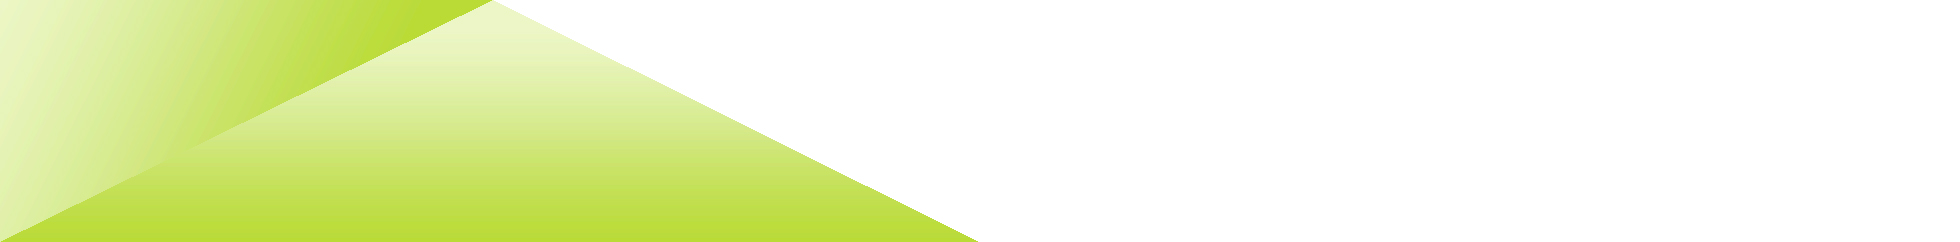
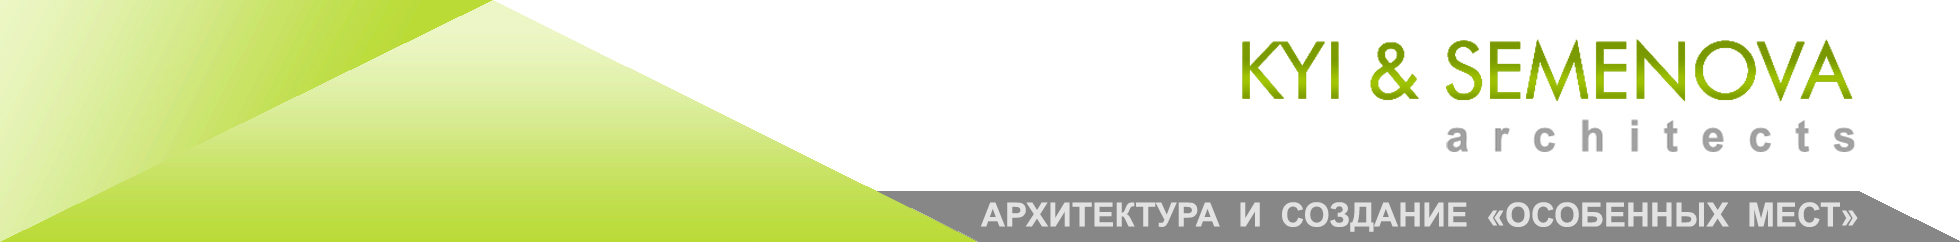
- Added custom 'play' arrow on video - Home page style changed

Changed region(s): [[0.4357, 0.781, 1.0, 1.0], [0.6224, 0.1446, 0.9648, 0.4339], [0.7158, 0.4917, 0.9648, 0.6364]]

diff --git a/app/app.css b/app/app.css
@@ -21,13 +21,13 @@
     left: -35%;
     padding: 30px 0;
 
-    background: rgba(158, 158, 158, 1);
-    background: -moz-linear-gradient(top, rgba(158, 158, 158, 1) 0%, rgba(224, 224, 224, 1) 84%, rgba(245, 245, 245, 1) 100%);
-    background: -webkit-linear-gradient(top, rgba(158, 158, 158, 1) 0%, rgba(224, 224, 224, 1) 84%, rgba(245, 245, 245, 1) 100%);
-    background: -o-linear-gradient(top, rgba(158, 158, 158, 1) 0%, rgba(224, 224, 224, 1) 84%, rgba(245, 245, 245, 1) 100%);
-    background: -ms-linear-gradient(top, rgba(158, 158, 158, 1) 0%, rgba(224, 224, 224, 1) 84%, rgba(245, 245, 245, 1) 100%);
-    background: linear-gradient(to bottom, rgba(158, 158, 158, 1) 0%, rgba(224, 224, 224, 1) 84%, rgba(245, 245, 245, 1) 100%);
-    filter: progid:DXImageTransform.Microsoft.gradient(startColorstr='#9e9e9e', endColorstr='#f5f5f5', GradientType=0);
+    background: rgba(153, 153, 153, 1);
+    background: -moz-linear-gradient(left, rgba(153, 153, 153, 1) 0%, rgba(201, 201, 201, 1) 100%);
+    background: -webkit-linear-gradient(left, rgba(153, 153, 153, 1) 0%, rgba(201, 201, 201, 1) 100%);
+    background: -o-linear-gradient(left, rgba(153, 153, 153, 1) 0%, rgba(201, 201, 201, 1) 100%);
+    background: -ms-linear-gradient(left, rgba(153, 153, 153, 1) 0%, rgba(201, 201, 201, 1) 100%);
+    background: linear-gradient(to right, rgba(153, 153, 153, 1) 0%, rgba(201, 201, 201, 1) 100%);
+    filter: progid:DXImageTransform.Microsoft.gradient(startColorstr='#999999', endColorstr='#c9c9c9', GradientType=1);
 }
 
 .dropdown-menu > li > a {
@@ -37,8 +37,9 @@
     color: white;
 }
 
-.navbar-default .navbar-nav > .open > a, .navbar-default .navbar-nav > .open > a:hover, .navbar-default .navbar-nav > .open > a:focus {
+.navbar-default .navbar-nav > .open > a, .navbar-default .navbar-nav > .open > a:hover, .navbar-default .navbar-nav > .open > a:focus, .dropdown-menu > li > a:hover, .dropdown-menu > li > a:focus {
     background-color: transparent;
+    color: #6b6b6b;
 }
 
 @media (min-width: 768px) {
@@ -71,7 +72,7 @@
 }
 
 .nav > li > a {
-    padding: 10px 10px 0 10px;
+    padding: 10px 10px 0 11px;
 }
 
 .logo {
@@ -99,7 +100,7 @@
 }
 
 .languages-form:last-child {
-    margin-right: 40px;
+    margin-right: 34px;
 }
 
 .languages {
@@ -255,6 +256,7 @@ span.water {
     background: url("img/play-img.jpg") no-repeat;
     width: 100%;
     height: 416px;
+    position: relative;
 }
 
 #vidwrap {
@@ -294,4 +296,20 @@ span.water {
     color: white;
     text-align: center;
     margin: -120px;
+}
+
+.arrow {
+    position: absolute;
+    top: 0;
+    left: -84px;
+    height: 417px;
+}
+.area:hover{
+    cursor: pointer;
+    fill: #f6a155;
+}
+
+.arrow text {
+    cursor: pointer;
+    font-size: 25px;
 }

diff --git a/app/home/home.html b/app/home/home.html
@@ -1,4 +1,18 @@
 <div id="video-wrapper">
-    <div ng-click="play()" id="vidwrap"></div>
-    <h2 class = "title">{{translation.TITLE}}</h2>
+    <div id="vidwrap"></div>
+    <svg class = 'arrow' xmlns="http://www.w3.org/2000/svg" version="1.0" width="489.000000pt" height="419.000000pt" viewBox="0 0 489.000000 419.000000" preserveAspectRatio="xMidYMid meet">
+        <metadata>
+            Created by potrace 1.12, written by Peter Selinger 2001-2015
+        </metadata>
+        <defs>
+            <linearGradient id="grad1" x1="0%" y1="0%" x2="30%" y2="0%" gradientTransform="rotate(120)">
+                <stop offset="0%" style="stop-color:rgb(193,223,78);stop-opacity:1"/>
+                <stop offset="100%" style="stop-color:rgb(223,240,167);stop-opacity:1"/>
+            </linearGradient>
+        </defs>
+        <g ng-click="play()" transform="translate(0.000000,419.000000) scale(0.100000,-0.100000)" fill="url(#grad1)" stroke="none" style=" opacity: 0.7; " class = 'area'>
+            <path d="M10 2100 c0 -1149 0 -2090 0 -2090 0 0 1100 541 2435 1201 l2432 1202 -1802 886 -1802 886 -632 3 -633 2 0 -2090z"/>
+        </g>
+        <text fill="#ffffff" x="150" y="190">PLAY</text>
+    </svg>
 </div>

diff --git a/app/home/home.js b/app/home/home.js
@@ -13,8 +13,10 @@ angular.module('myApp.home', ['ngRoute'])
             controller: 'HomeCtrl'
         });
     }])
-    .controller('HomeCtrl', ['$scope',function ($scope) {
-       $scope.play =  function play() {
+    .controller('HomeCtrl', ['$scope', function ($scope) {
+        $('.area')[0].fill = 'green';
+        $scope.play = function play() {
+            $('.arrow')[0].style.visibility = 'hidden';
             document.getElementById('vidwrap')
                 .innerHTML = '<iframe id="video" src="https://www.youtube.com/embed/54XztbNJ87g?rel=0&modestbranding=1&autohide=1&showinfo=0&theme=light&fs=0&color=white&autoplay=1" frameborder="0" allowfullscreen></iframe>';
         }

diff --git a/app/index.html b/app/index.html
@@ -41,9 +41,7 @@
 </head>
 <body ng-controller="translationController">
 <div class="wrapper">
-    <div class="logo">
-        <img class="logo-title" src="img/logo.png" alt="logo">
-    </div>
+    <div class="logo"></div>
 
     <div class="clear"></div>
     <nav class="navbar navbar-default">
